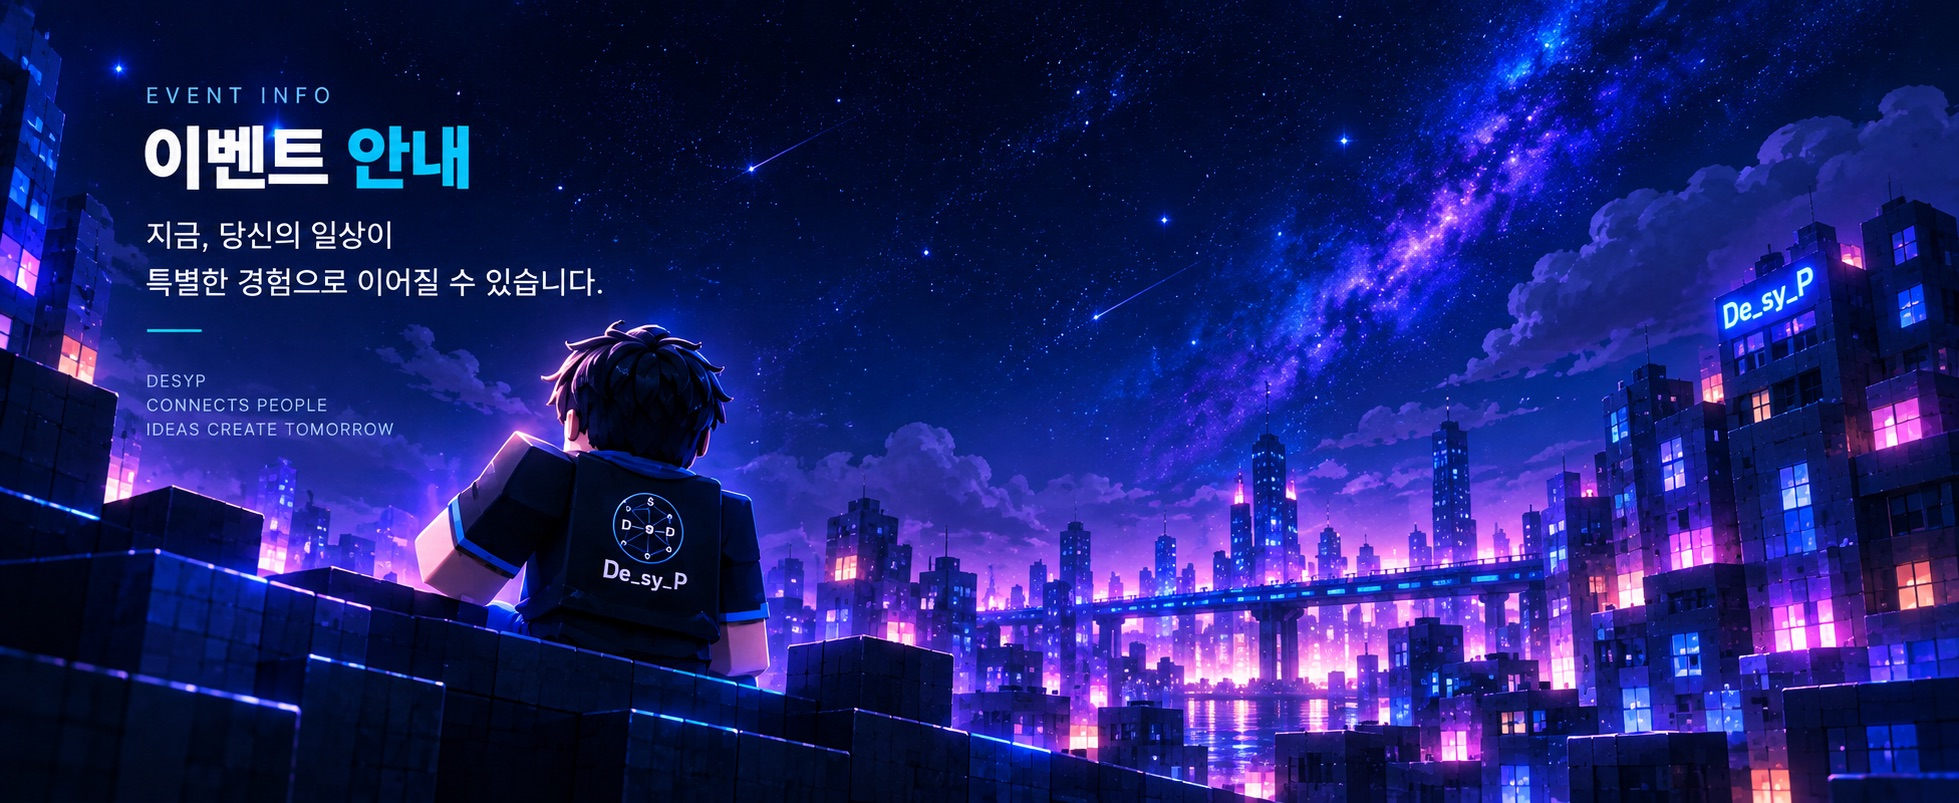
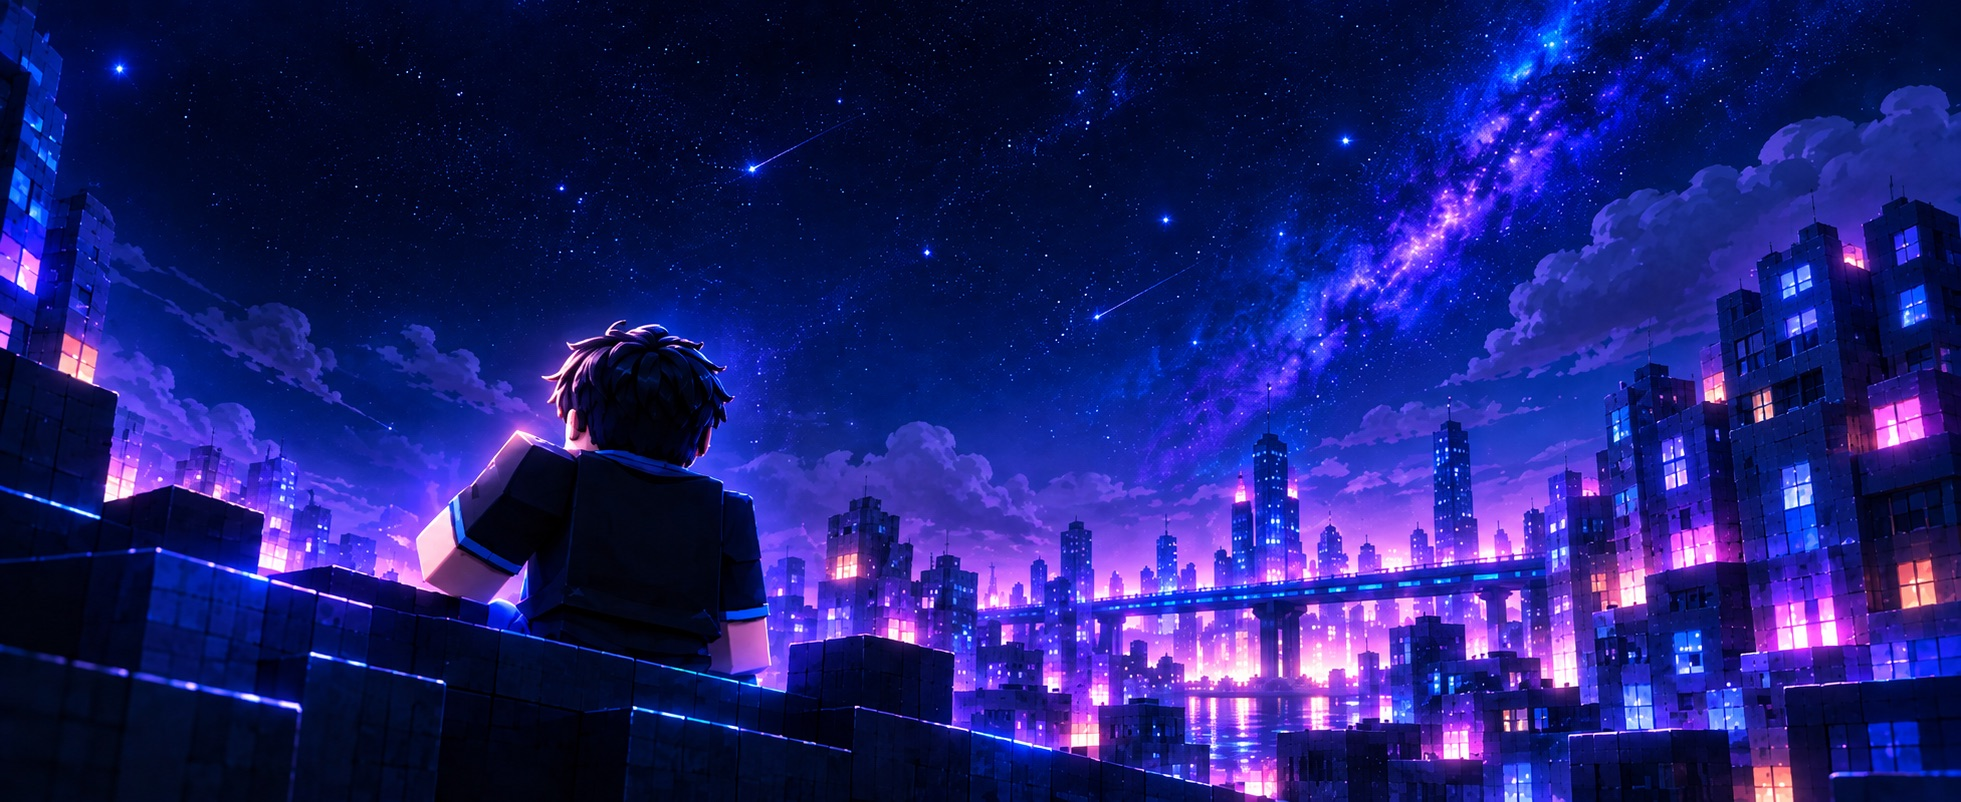
feat: 이벤트 안내를 이벤트 소개·유의 사항으로 교체, 문구를 코드로 구현
- 글자 없는 배경 이미지로 교체하고 제목·소개 문구를 텍스트로 구현
- 선착순·랜덤 번호·추천왕 상품 카드, 유의 사항 2개 추가
- 개인정보 수집·이용 안내는 접히는 블록으로 옮기고 동의 항목 '자세히'와 연결
- FAQ 상품 답변을 새 구성에 맞춤

diff --git a/src/index.css b/src/index.css
@@ -533,14 +533,13 @@ a {
 }
 
 /* ===== About ===== */
-/* 배경은 이미지 한 장(1959x803). 왼쪽 제목·문구와 뒷모습 캐릭터가 이미지에 포함돼 있다.
-   HTML 제목(.about__left)은 화면 낭독기용으로만 남기고, 카드는 오른쪽 칸에 둔다 */
+/* 배경 이미지(1961x802)에는 글자가 없다. 왼쪽은 소개 문구, 오른쪽은 상품 카드와 유의 사항 */
 .about {
   display: grid;
   grid-template-columns: 1fr 1fr;
   gap: 60px;
   align-items: center;
-  min-height: calc(100vw * 803 / 1959);
+  min-height: calc(100vw * 802 / 1961);
   isolation: isolate;
 }
 .about::before {
@@ -560,21 +559,35 @@ a {
 .section.about {
   margin-top: -80px;
 }
-.about__right {
-  grid-column: 2;
-}
+/* 캐릭터 머리 위 하늘 부분에만 글자가 오도록 위쪽에 붙인다 */
 .about__left {
-  position: absolute;
-  width: 1px;
-  height: 1px;
-  overflow: hidden;
-  clip: rect(0 0 0 0);
-  white-space: nowrap;
+  align-self: start;
+  /* 별 하늘 위에서도 글자가 또렷하게 */
+  text-shadow: 0 2px 12px rgba(0, 0, 0, 0.7);
+}
+.about__title {
+  font-family: var(--font-display);
+  font-weight: 400;
+  font-size: clamp(2.4rem, 4.4vw, 3.6rem);
+  line-height: 1.1;
+  margin: 0 0 20px;
+}
+.about__desc {
+  font-size: clamp(1.1rem, 1.6vw, 1.4rem);
+  font-weight: 700;
+  line-height: 1.5;
+  margin: 0 0 14px;
+}
+.about__desc--sub {
+  font-size: 0.95rem;
+  font-weight: 400;
+  color: #c9d2ee;
+  margin-bottom: 24px;
 }
 .about__right {
   display: flex;
   flex-direction: column;
-  gap: 16px;
+  gap: 14px;
 }
 .info-card {
   display: flex;
@@ -585,30 +598,78 @@ a {
   backdrop-filter: blur(6px);
   border: 1px solid var(--card-border);
   border-radius: 14px;
-  padding: 20px;
+  padding: 18px 20px;
 }
 .info-card__icon {
   width: 48px;
   height: 48px;
   flex-shrink: 0;
 }
+.info-card__text {
+  flex: 1;
+  min-width: 0;
+}
 .info-card__title {
   margin: 0 0 4px;
-  font-size: 1rem;
+  font-size: 1.05rem;
 }
 .info-card__body {
   margin: 0;
   color: var(--text-dim);
-  font-size: 0.9rem;
+  font-size: 0.88rem;
   line-height: 1.5;
 }
-.about__handwritten {
-  align-self: flex-end;
-  font-family: var(--font-hand);
-  font-size: 1.1rem;
+.info-card__prize {
+  font-family: var(--font-display);
+  font-size: 1.05rem;
   color: var(--accent-blue-light);
-  text-shadow: 0 0 6px #000, 0 0 12px #000;
-  margin: 8px 0 0;
+  text-align: right;
+  white-space: nowrap;
+}
+.info-card__body,
+.notice,
+.privacy,
+.about__desc {
+  word-break: keep-all; /* 한국어 단어 중간에서 줄이 꺾이지 않게 */
+}
+.notice,
+.privacy {
+  background: rgba(8, 12, 36, 0.78);
+  backdrop-filter: blur(6px);
+  border: 1px solid var(--card-border);
+  border-radius: 14px;
+  padding: 16px 20px;
+  font-size: 0.88rem;
+  line-height: 1.6;
+}
+.notice__title {
+  margin: 0 0 8px;
+  font-size: 0.95rem;
+  color: #ffcf70;
+}
+.notice__list {
+  margin: 0;
+  padding-left: 18px;
+  color: #d6dcf2;
+}
+.privacy summary {
+  cursor: pointer;
+  font-weight: 700;
+  color: var(--text-dim);
+}
+.privacy dl {
+  margin: 12px 0 0;
+  display: grid;
+  grid-template-columns: auto 1fr;
+  gap: 6px 14px;
+  color: var(--text-dim);
+}
+.privacy dt {
+  font-weight: 700;
+  color: var(--text-white);
+}
+.privacy dd {
+  margin: 0;
 }
 
 /* ===== Prize ===== */
@@ -851,21 +912,10 @@ a {
   }
   .section.about {
     display: grid;
-    min-height: max(calc(100vw * 803 / 1959), calc(100svh - 80px));
+    min-height: max(calc(100vw * 802 / 1961), calc(100svh - 80px));
   }
   .section.faq {
     min-height: 0; /* FAQ는 휠 넘김 없이 평소처럼 스크롤한다 */
-  }
-  /* 배경 속 제목이 화면 왼쪽에 너무 붙지 않게 이미지를 오른쪽으로 민다.
-     비는 왼쪽 끝은 페이지 배경색으로 서서히 이어진다 */
-  .about::before {
-    /* 섹션이 화면 높이만큼 커지면 이미지가 확대되는데, 왼쪽 기준으로 맞춰 글자 쪽이 잘리지 않게 한다 */
-    background-position: left center;
-    transform: translateX(calc(-50% + 4vw));
-    mask-image:
-      linear-gradient(to bottom, transparent, #000 8%, #000 90%, transparent),
-      linear-gradient(to right, transparent, #000 5%);
-    mask-composite: intersect;
   }
 }
 
@@ -889,21 +939,15 @@ a {
     gap: 16px;
     border-bottom: 1px solid var(--card-border);
   }
-  /* 좁은 화면: 이미지 왼쪽(글자 부분)을 위쪽 배너로 보여주고 카드는 그 아래에 둔다 */
+  /* 좁은 화면: 소개 문구 아래에 카드를 쌓고, 배경은 캐릭터가 보이게 왼쪽 기준으로 깐다 */
   .section.about {
     grid-template-columns: 1fr;
+    gap: 32px;
     min-height: 0;
     margin-top: -60px;
-    padding-top: 440px;
   }
   .about::before {
-    bottom: auto;
-    height: 460px;
-    background-size: auto 100%;
-    background-position: left top;
-  }
-  .about__right {
-    grid-column: auto;
+    background-position: 25% center;
   }
 }
 

diff --git a/src/components/EventInfo.tsx b/src/components/EventInfo.tsx
@@ -1,27 +1,12 @@
-const INFO_ITEMS = [
-  { icon: 'people', title: '참여 대상', body: '만 14세 이상 (네이버 로그인)' },
-  {
-    icon: 'database',
-    title: '수집 정보',
-    body: (
-      <>
-        · 이메일 (네이버 계정에서 제공)
-        <br />· 휴대전화번호 (네이버 계정에서 제공)
-        <br />· 추천인 이메일 (선택 입력)
-      </>
-    ),
-  },
-  {
-    icon: 'document',
-    title: '이용 목적',
-    body: (
-      <>
-        · 이메일: 당첨 및 이벤트 안내 연락
-        <br />· 휴대전화번호: 한 사람의 중복 참여 확인 (연락에는 일절 사용하지 않음)
-        <br />· 추천인 이메일: 추천 참여 확인
-      </>
-    ),
-  },
+const PRIZE_ITEMS = [
+  { icon: 'clock', title: '선착순 1명', body: '이벤트 오픈 순간 가장 먼저 클릭한 1명', prize: '50,000원 기프티콘' },
+  { icon: 'document', title: '랜덤 번호 1명', body: '참여자 중 무작위로 뽑힌 번호 1명', prize: '50,000원 기프티콘' },
+  { icon: 'people', title: '추천왕 1명', body: '추천을 가장 많이 받은 1명', prize: '30,000원 상당 상품' },
+]
+
+const NOTICES = [
+  '입력한 Instagram 아이디가 존재하지 않으면 당첨이 취소되고 다음 순번에게 넘어갑니다.',
+  '추천 점수가 같은 사람이 여러 명이면, 그중 1명을 무작위 추첨으로 선정합니다.',
 ]
 
 export default function EventInfo() {
@@ -30,43 +15,58 @@ export default function EventInfo() {
   return (
     <section id="about" className="section about">
       <div className="about__left">
-        <span className="section-label">EVENT INFO</span>
+        <span className="section-label">ABOUT EVENT</span>
         <h2 className="about__title">
-          이벤트 <span className="text-blue">안내</span>
+          이벤트 <span className="text-blue">소개</span>
         </h2>
         <p className="about__desc">
-          지금, 당신의 일상이
+          De_sy_P는 대학생들이 함께 만드는
           <br />
-          특별한 경험으로 이어질 수 있습니다.
+          대규모 트래픽 프로젝트입니다.
         </p>
-        <hr className="about__divider" />
-        <p className="about__tagline">
-          DESYP
+        <p className="about__desc about__desc--sub">
+          Instagram 아이디를 입력하고, 이벤트가 열리는 시간에 버튼을 클릭해주세요.
           <br />
-          CONNECTS PEOPLE
-          <br />
-          IDEAS CREATE TOMORROW
+          수많은 클릭을 우리 서버가 버텨낼 수 있을지 함께 확인해요!
         </p>
       </div>
 
       <div className="about__right">
-        {INFO_ITEMS.map((item) => (
+        {PRIZE_ITEMS.map((item) => (
           <div className="info-card" key={item.title}>
             <img className="info-card__icon" src={`/assets/icon-${item.icon}.svg`} alt="" width={48} height={48} />
-            <div>
+            <div className="info-card__text">
               <h3 className="info-card__title">{item.title}</h3>
               <p className="info-card__body">{item.body}</p>
             </div>
+            <span className="info-card__prize">{item.prize}</span>
           </div>
         ))}
-        <div className="info-card">
-          <img className="info-card__icon" src="/assets/icon-clock.svg" alt="" width={48} height={48} />
-          <div>
-            <h3 className="info-card__title">보유 기간</h3>
-            <p className="info-card__body">이벤트 종료 후 {retentionDays}일 이내 파기</p>
-          </div>
+
+        <div className="notice">
+          <h3 className="notice__title">유의 사항</h3>
+          <ul className="notice__list">
+            {NOTICES.map((text) => (
+              <li key={text}>{text}</li>
+            ))}
+          </ul>
         </div>
-        <p className="about__handwritten">SMALL PARTICIPATION BIG CHANGES</p>
+
+        {/* 사전등록 동의 항목의 "자세히" 링크가 여기를 연다 */}
+        <details className="privacy" id="privacy">
+          <summary>개인정보 수집·이용 안내</summary>
+          <dl>
+            <dt>수집 정보</dt>
+            <dd>이메일, 휴대전화번호 (네이버 계정에서 제공), 추천인 이메일 (선택 입력)</dd>
+            <dt>이용 목적</dt>
+            <dd>
+              이메일은 당첨 및 이벤트 안내 연락에 씁니다. 휴대전화번호는 한 사람의 중복 참여 확인에만 쓰고
+              연락에는 일절 사용하지 않습니다. 추천인 이메일은 추천 참여 확인에 씁니다.
+            </dd>
+            <dt>보유 기간</dt>
+            <dd>이벤트 종료 후 {retentionDays}일 이내 파기</dd>
+          </dl>
+        </details>
       </div>
     </section>
   )

diff --git a/src/components/EntryCard.tsx b/src/components/EntryCard.tsx
@@ -24,6 +24,12 @@ function consumeLoginError(): string | null {
   return LOGIN_ERROR_MESSAGES[reason] ?? LOGIN_ERROR_MESSAGES.default
 }
 
+/** "자세히"를 누르면 개인정보 안내를 펼친 뒤 그 위치로 이동한다 */
+function openPrivacy() {
+  const el = document.getElementById('privacy') as HTMLDetailsElement | null
+  if (el) el.open = true
+}
+
 export default function EntryCard() {
   const countdown = useCountdown(import.meta.env.VITE_REGISTRATION_END_AT)
   const ageId = useId()
@@ -177,7 +183,7 @@ export default function EntryCard() {
                 onChange={(e) => setAgreePrivacy(e.target.checked)}
               />
               <label htmlFor={privacyId}>
-                [필수] 개인정보 수집·이용에 동의합니다. <a href="#about">자세히</a>
+                [필수] 개인정보 수집·이용에 동의합니다. <a href="#privacy" onClick={openPrivacy}>자세히</a>
               </label>
             </div>
             <div className="entry-form__checkbox-row">

diff --git a/src/components/Faq.tsx b/src/components/Faq.tsx
@@ -25,7 +25,7 @@ const FAQ_ITEMS = [
   },
   {
     q: '어떤 상품을 받을 수 있나요?',
-    a: '50,000원 상당의 기프티콘이에요. 브랜드 목록은 상품 안내에서 볼 수 있어요.',
+    a: '선착순 1명과 랜덤 번호 1명에게 50,000원 기프티콘을, 추천을 가장 많이 받은 1명에게 30,000원 상당의 상품을 드려요. 기프티콘 브랜드는 상품 안내에서 볼 수 있어요.',
   },
   {
     q: '당첨되면 어떻게 알 수 있나요?',

diff --git a/README.md b/README.md
@@ -60,7 +60,7 @@ npm run preview          # 빌드 결과 로컬 확인
 ## 이미지 에셋 교체
 
 - `bg-hero.jpg` — 히어로 배경 포스터 (가로 1536x1024). 제목·캐릭터·간판·선물상자가 이미지에 포함돼 있다. 비율이 다른 이미지로 바꾸면 `src/index.css`의 `.hero`의 `--poster-h` 비율(2/3)을 맞춘다
-- `bg-about.jpg` — 이벤트 안내 섹션 배경 (1959x803). 제목·문구·뒷모습 캐릭터가 이미지에 포함돼 있다. 비율이 바뀌면 `.about`의 `min-height` 비율을 맞춘다
+- `bg-about.jpg` — 이벤트 소개 섹션 배경 (1961x802). 글자 없는 이미지이고, 문구는 코드로 구현돼 있다. 비율이 바뀌면 `.about`의 `min-height` 비율을 맞춘다
 
 ## 배포 (Vercel)
 
